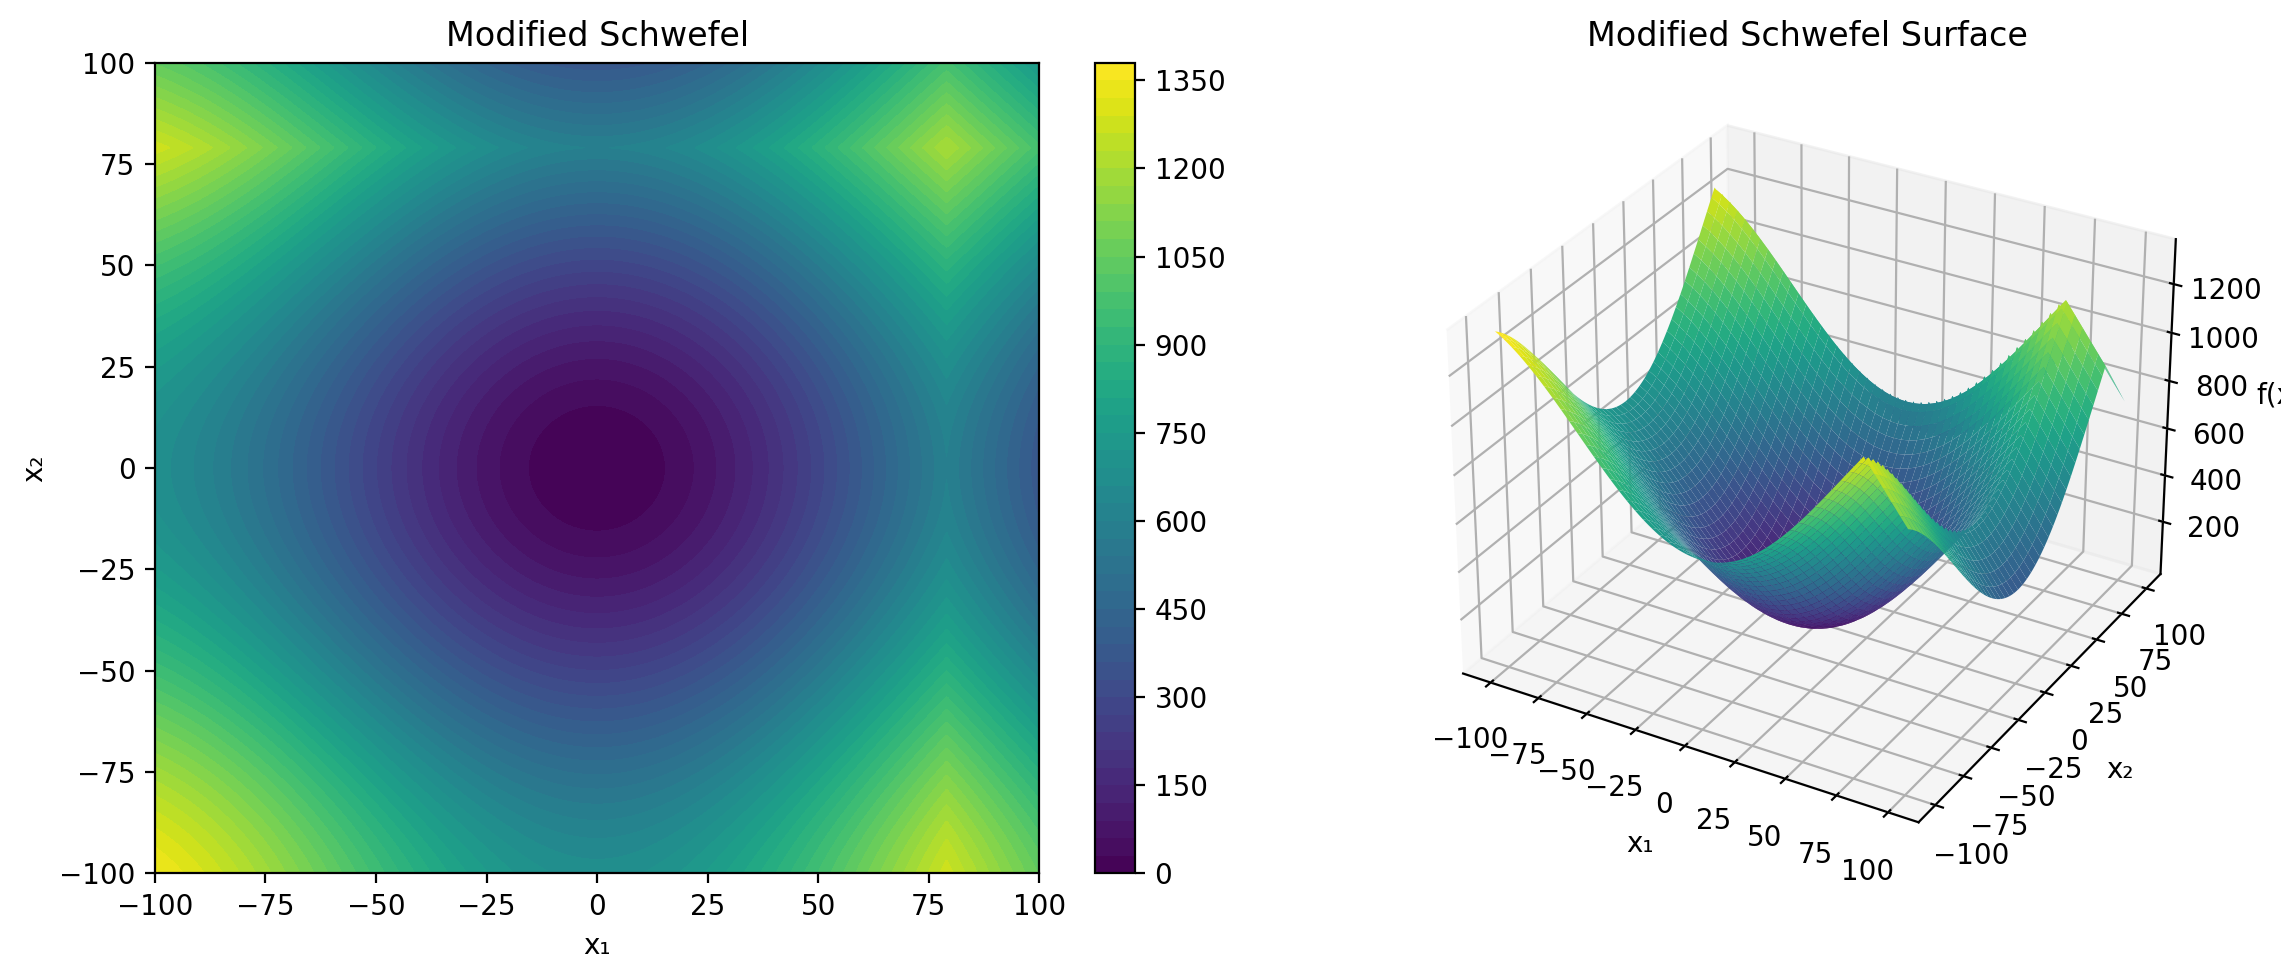
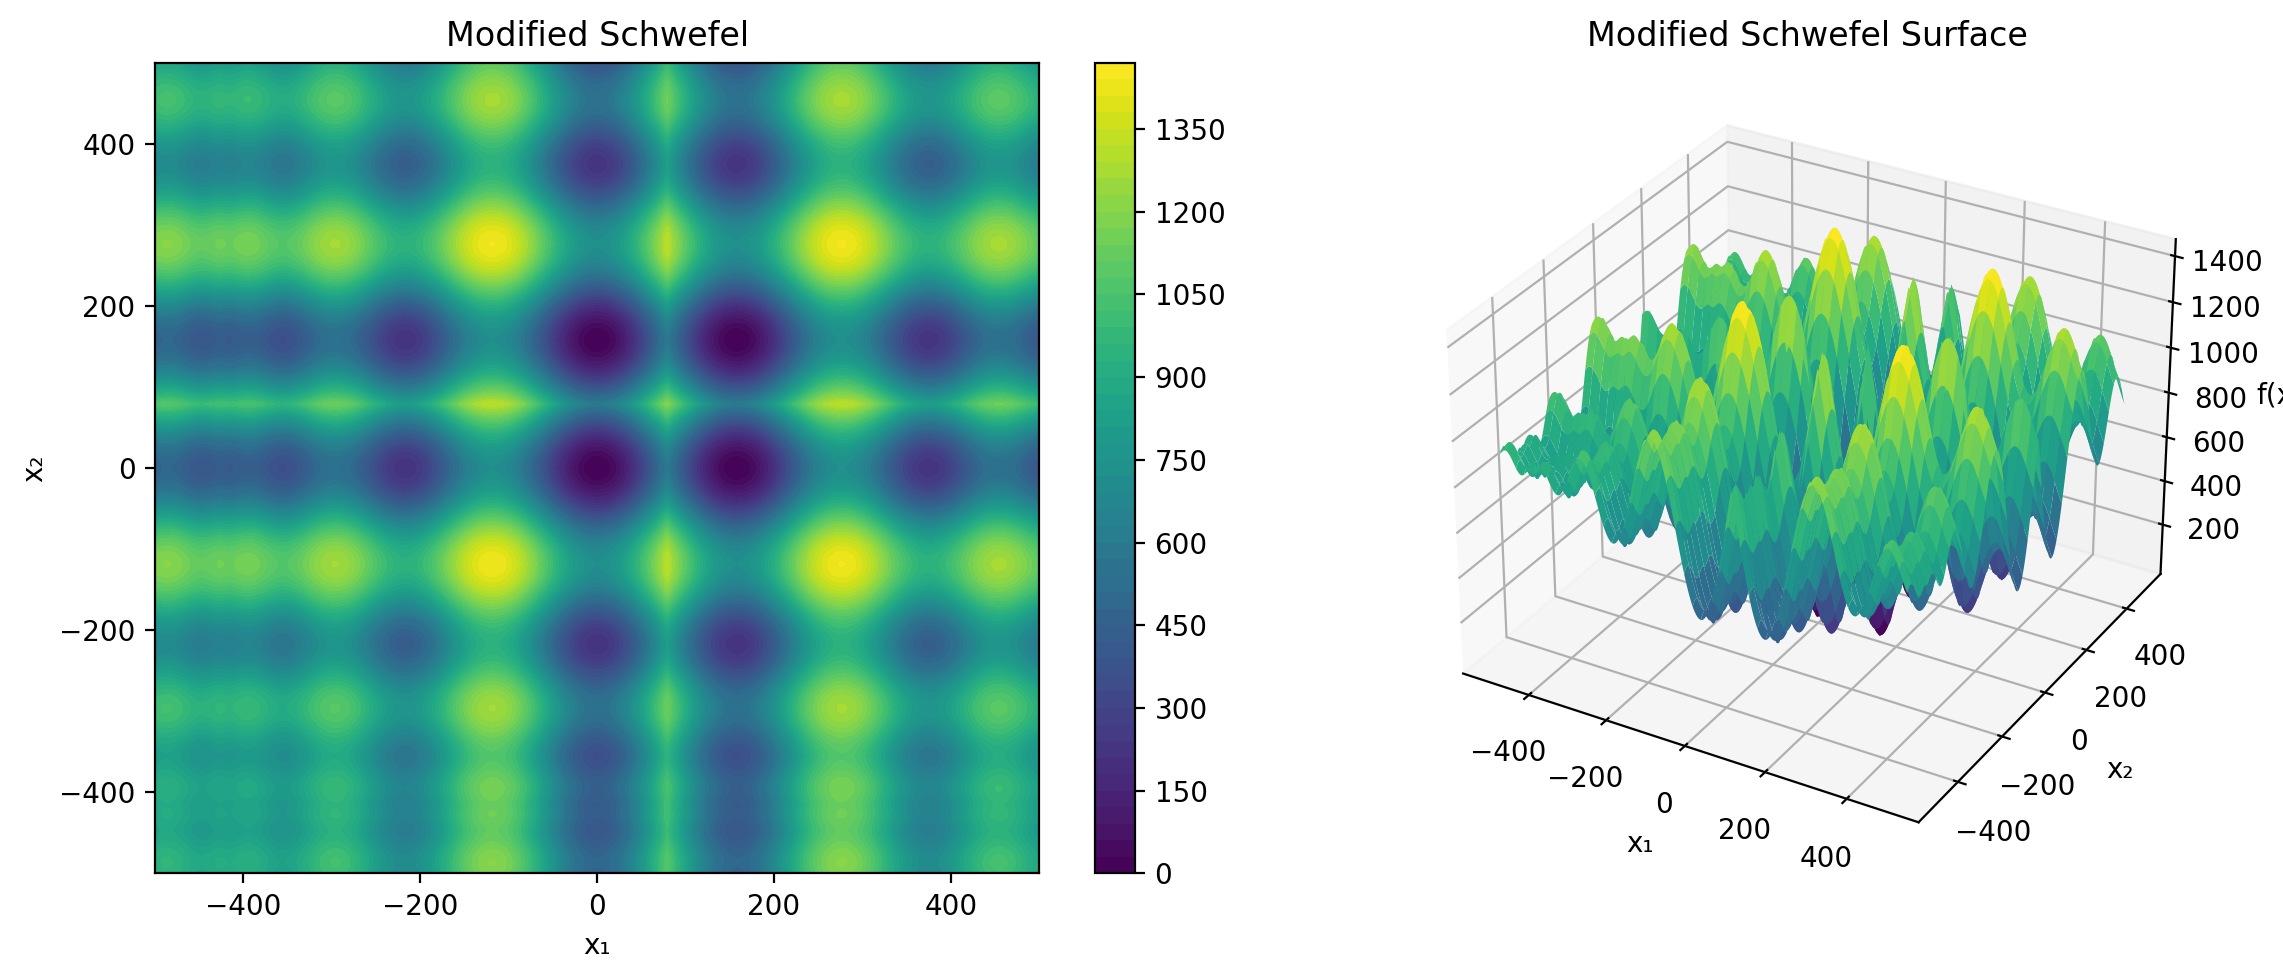
add different bounds per function

diff --git a/algorithms/testing_functions.py b/algorithms/testing_functions.py
@@ -70,7 +70,9 @@ def _rosenbrock(z):
     return torch.sum(100*(z[..., :-1]**2 - z[..., 1:])**2 + (z[..., :-1] - 1)**2, dim=-1)
 
 def _rastrigin(z):
-    return torch.sum(z**2 - 10*torch.cos(2*math.pi*z) + 10, dim=-1)
+    D = z.shape[-1]
+    return torch.sum(z**2 - 10 * torch.cos(2 * np.pi * z) + 10, dim=-1)
+
 
 def _levy(z):
     w  = 1 + (z - 1)/4
@@ -146,22 +148,6 @@ def _mod_schwefel(z):
 
     return 418.9829*D - torch.sum(out, dim=-1)
 
-def _katsuura(z):
-    D = z.shape[-1]
-    i = torch.arange(1, D+1, device=z.device, dtype=z.dtype).view(*(1,)* (z.ndim-1), D)
-    j = torch.arange(1, 33, device=z.device, dtype=z.dtype).view(*(1,)*z.ndim, 32)
-    pow2j = torch.pow(torch.tensor(2.0, dtype=z.dtype, device=z.device), j)
-
-    z_exp = z.unsqueeze(-1) 
-    frac = torch.abs(pow2j * z_exp - torch.round(pow2j * z_exp)) / pow2j   
-    inner_sum = torch.sum(frac, dim=-1)  
-
-    base = 1.0 + i * inner_sum
-    power = 10.0 / (D**1.2)
-    prod_term = torch.prod(torch.pow(base, power), dim=-1)
-
-    return (10.0 / (D**2)) * (prod_term - 1.0)
-
 def _schaffers_f7(z):
     xi, xnext = _pairwise_adjacent(z)
     s = torch.sqrt(xi**2 + xnext**2)
@@ -210,8 +196,26 @@ def plot_function_2d(f, name, bounds=(-5, 5), res=200, device='cpu', log_scale=F
 if __name__ == "__main__":
     os.makedirs("shifted_rotated_plots", exist_ok=True)
 
-    BOUNDS = (-100.0, 100.0)
-    RES    = 200
+    # Function-specific bounds for proper visualization
+    FUNCTION_BOUNDS = {
+        "Zakharov": (-5, 10),
+        "Rosenbrock": (-5, 10),
+        "Expanded Schaffer F6": (-100, 100),
+        "Rastrigin": (-5.12, 5.12),
+        "Levy": (-10, 10),
+        "Bent Cigar": (-100, 100),
+        "HGBat": (-5, 5),
+        "High-Conditioned Elliptic": (-100, 100),
+        "HappyCat": (-5, 5),
+        "Expanded Rosenbrock + Griewank": (-5, 5),
+        "Modified Schwefel": (-500, 500),
+        "Ackley": (-32.768, 32.768),
+        "Discus": (-100, 100),
+        "Griewank": (-600, 600),
+        "Schaffer F7": (-100, 100),
+    }
+
+    RES = 1000
 
     # map each function to its CEC row index in _SHIFTS
     FUNC_IDS = {
@@ -223,14 +227,13 @@ if __name__ == "__main__":
         "Bent Cigar":                        6,
         "HGBat":                             7,
         "High-Conditioned Elliptic":         8,
-        "Katsuura":                          9,
-        "HappyCat":                          10,
-        "Expanded Rosenbrock + Griewank":    11,
-        "Modified Schwefel":                 12,
-        "Ackley":                            13,
-        "Discus":                            14,
-        "Griewank":                          15,
-        "Schaffer F7":                       16,
+        "HappyCat":                          9,
+        "Expanded Rosenbrock + Griewank":    10,
+        "Modified Schwefel":                 11,
+        "Ackley":                            12,
+        "Discus":                            13,
+        "Griewank":                          14,
+        "Schaffer F7":                       15,
     }
 
     base_funcs = [
@@ -242,7 +245,6 @@ if __name__ == "__main__":
         (_bent_cigar,            "Bent Cigar"),
         (_hg_bat,                "HGBat"),
         (_elliptic,              "High-Conditioned Elliptic"),
-        (_katsuura,              "Katsuura"),
         (_happy_cat,             "HappyCat"),
         (_exp_rosen_griewank,    "Expanded Rosenbrock + Griewank"),
         (_mod_schwefel,          "Modified Schwefel"),
@@ -257,14 +259,16 @@ if __name__ == "__main__":
         func_id = FUNC_IDS[name]
         # f_trans = apply_shift_rot(f_basic, func_id=func_id, D=D)
 
+        bounds = FUNCTION_BOUNDS.get(name, (-100, 100))  # default fallback to (100,100)
+
         fname = name.replace(" ", "_").replace("+", "plus").replace("/", "_") 
         path  = f"basic_functions_plots_{RES}/{fname}.png"
         try:
-            print(f"Plotting {name} → {path}")
+            print(f"Plotting {name} with bounds {bounds} → {path}")
             plot_function_2d(
                 f_basic,
                 f"{name}",
-                bounds=BOUNDS,
+                bounds=bounds,
                 res=RES,
                 save_path=path
             )
